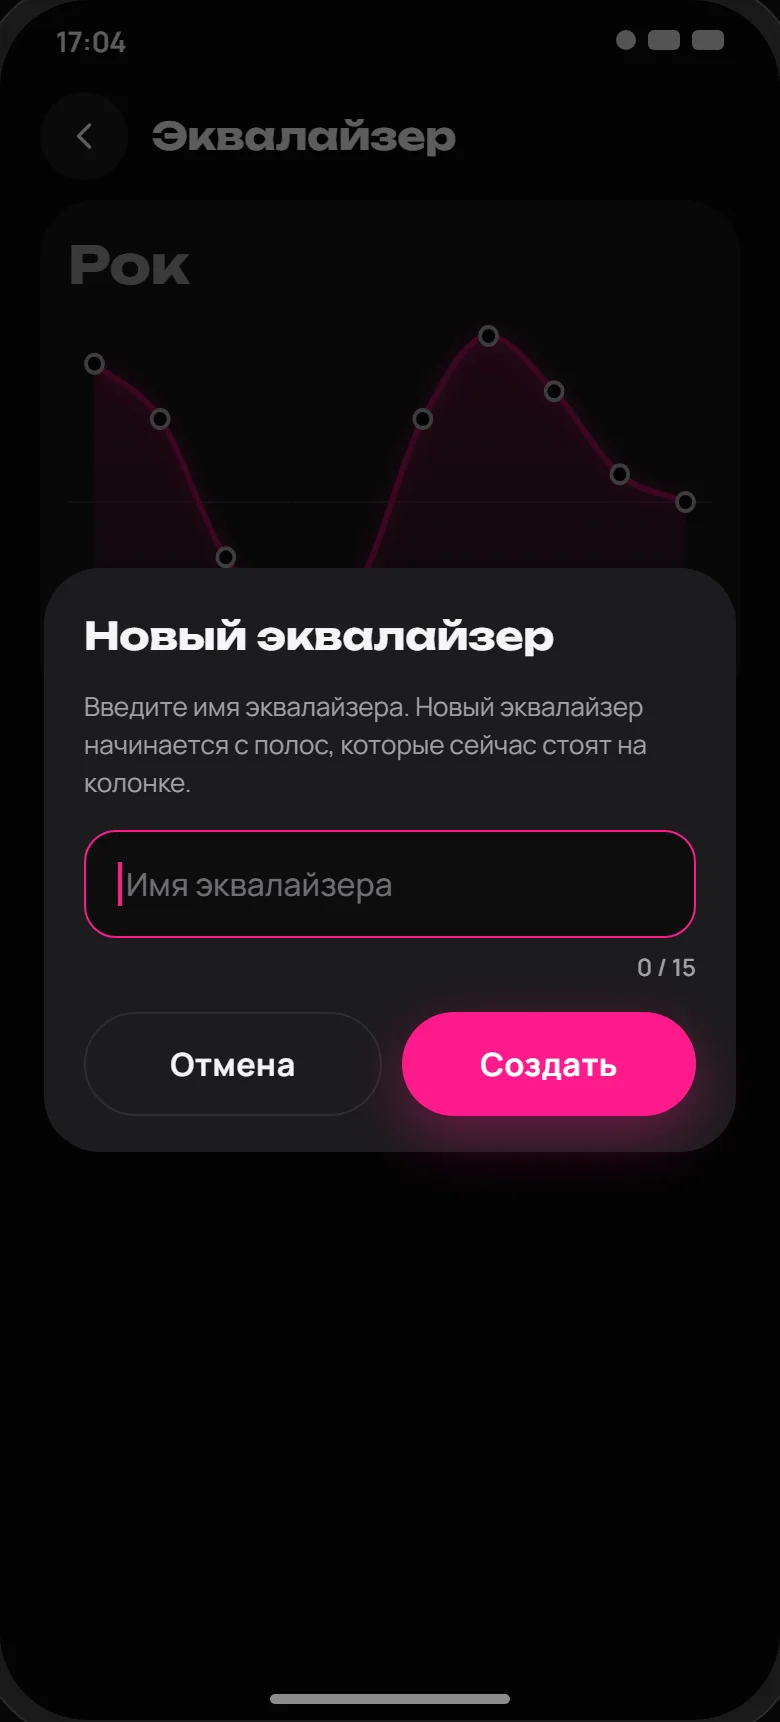
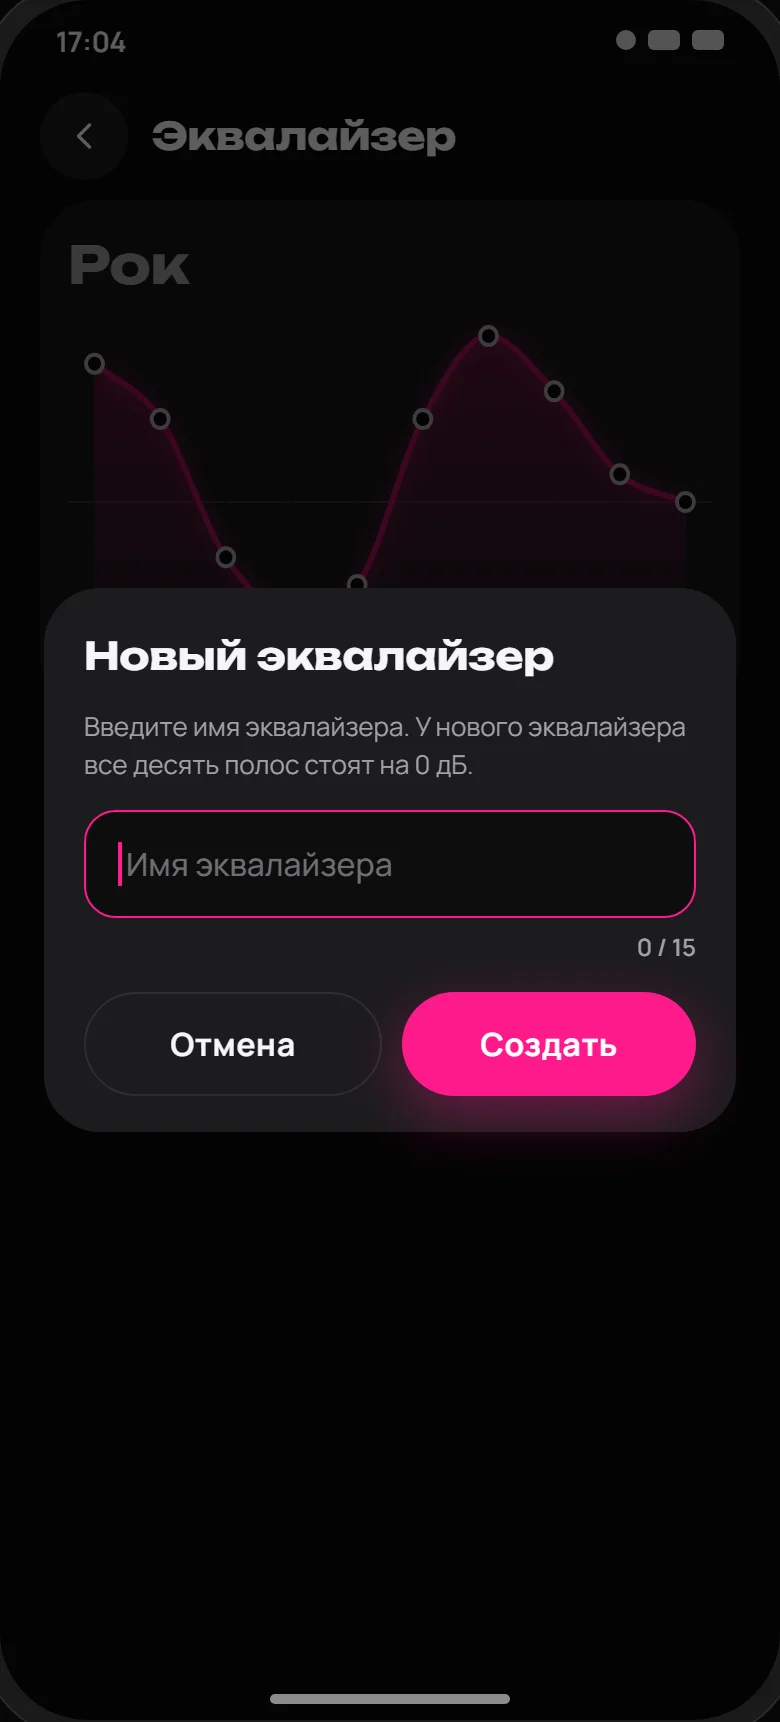
design: a new EQ starts at 0 dB on all ten bands; custom presets live as files in the app's folder (owner ≈ 19:4x)

Changed region(s): [[0.0615, 0.3386, 0.9538, 0.6771]]

diff --git a/design/mockups-v1.html b/design/mockups-v1.html
@@ -558,7 +558,7 @@
         <div class="body"><div class="graph" style="opacity:.6"><h3>Рок</h3><svg class="big" data-db="10,6,-4,-8,-6,6,12,8,2,0" viewBox="0 0 340 190" preserveAspectRatio="none"></svg></div></div>
         <div class="dim"><div class="dialog">
           <h3>Новый эквалайзер</h3>
-          <div class="muted">Введите имя эквалайзера. Новый эквалайзер начинается с полос, которые сейчас стоят на колонке.</div>
+          <div class="muted">Введите имя эквалайзера. У нового эквалайзера все десять полос стоят на 0 дБ.</div>
           <div class="field"><b></b>Имя эквалайзера</div>
           <div class="counter">0 / 15</div>
           <div class="btns"><div class="btn ghost">Отмена</div><div class="btn primary">Создать</div></div>

diff --git a/interviews/interview_003_design_variants.md b/interviews/interview_003_design_variants.md
@@ -97,3 +97,8 @@ StormBox Blast 2 подключена, заряд 30 %, громкость 10 и
   экране - открыть на полный экран, можно повернуть в лендскейм для удобства.» Применены в листе макетов, ряд 3.
 - «кнопку настроен вверху справа на главном экране не забудь добавить» (≈ 19:31) — на макете A-home стоит кнопка с
   шестерёнкой справа от «Krinik Tribit»; в коде она тоже будет.
+- «новый эквалайзер начинается с нулей» (владелец, чат 2026-10-16 ≈ 19:4x +03:00) — заменяет предложение агента «начинается
+  с полос, которые сейчас стоят на колонке»; в окне «Новый эквалайзер» стоит «У нового эквалайзера все десять полос стоят на 0 дБ».
+- «пресеты хранить в директории приложения файлами» (владелец, чат 2026-10-16 ≈ 19:4x +03:00) — пользовательские пресеты,
+  созданные кнопкой «+», хранятся файлами в папке приложения на телефоне; на колонку уходит выбранный (у колонки одно место
+  для пользовательского эквалайзера).
